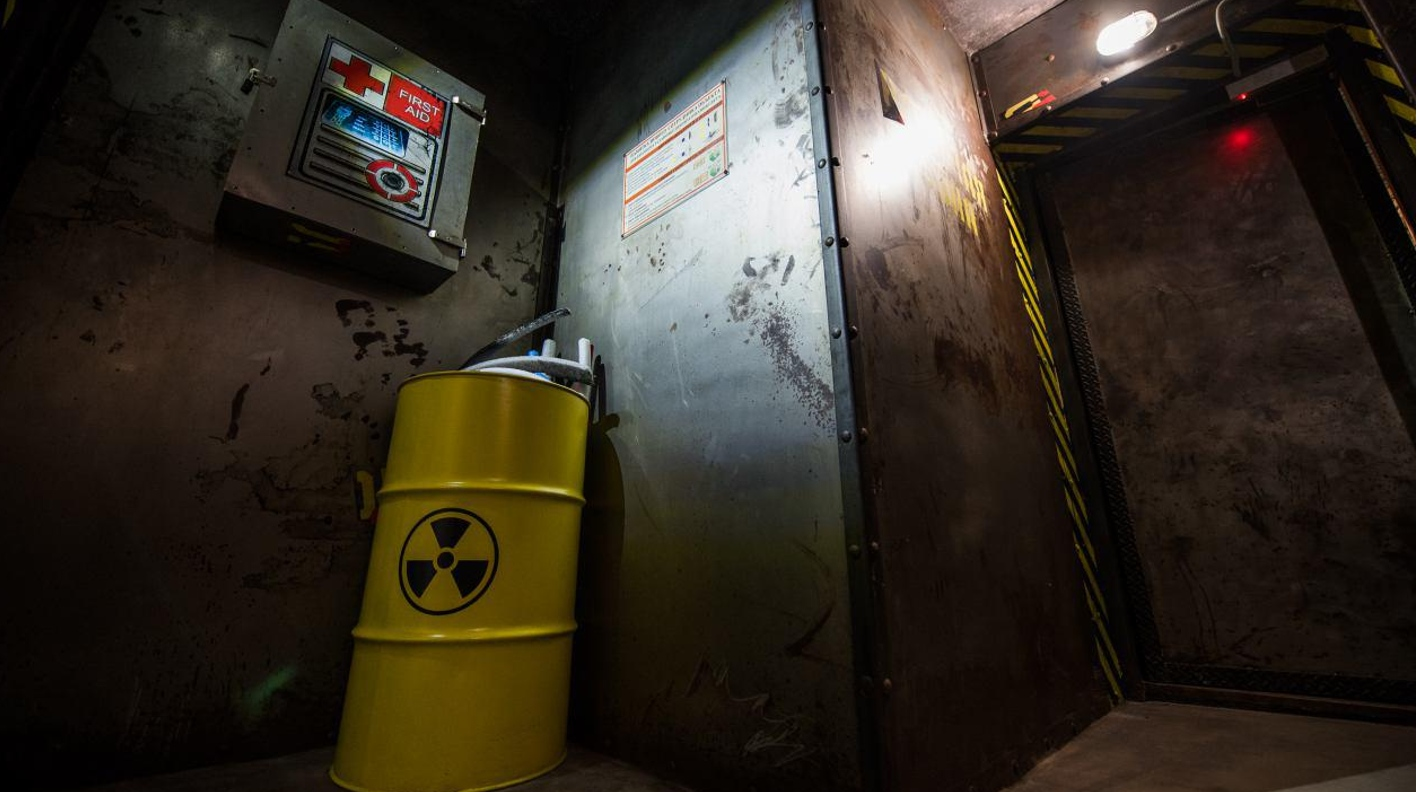
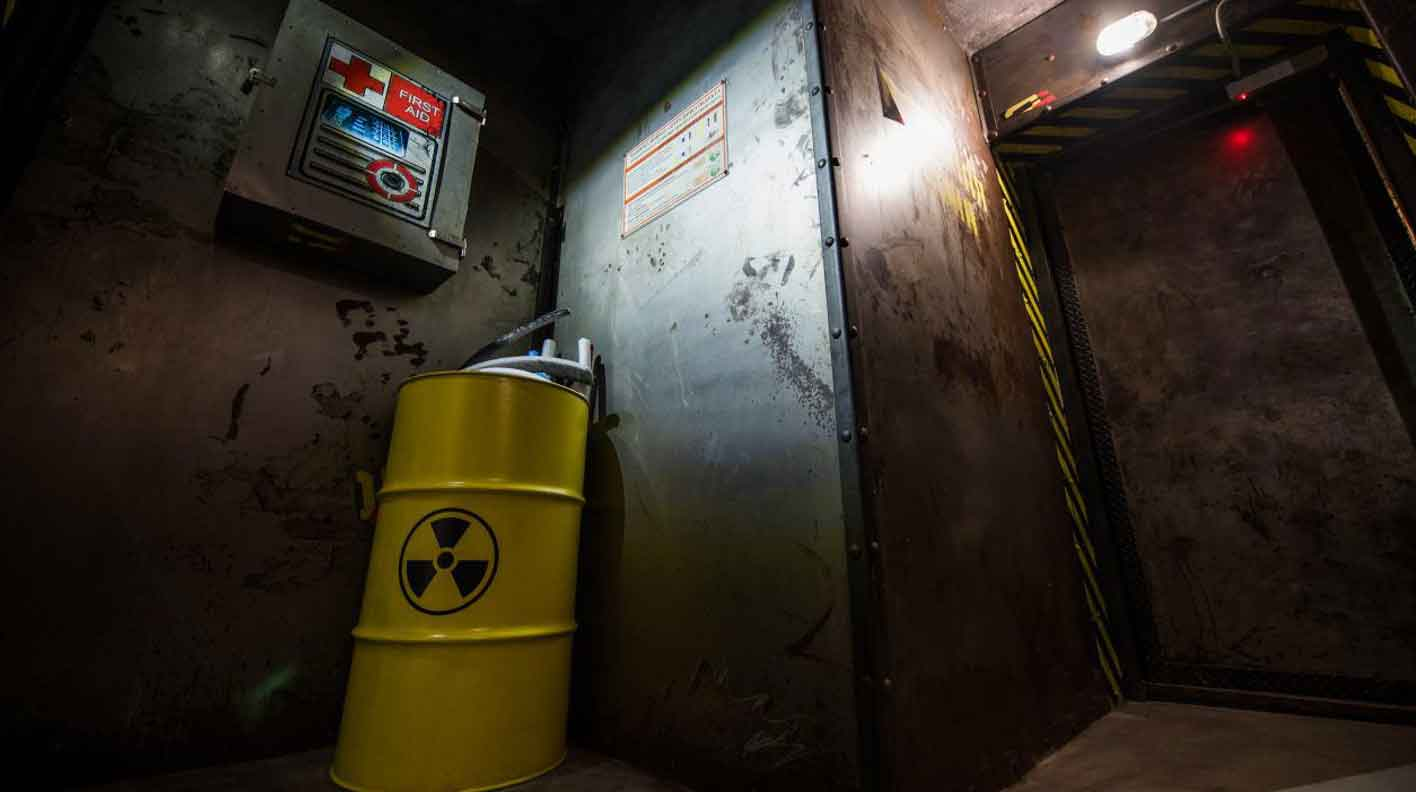
fixed room-images

diff --git a/dontpanic/room.html b/dontpanic/room.html
@@ -65,6 +65,7 @@
       <li><a href="#">Правила</a></li>
       <li><a href="#">Акции</a></li>
       <li><a href="#">Сотрудничество</a></li>
+      <li><a href="http://tamtamlg.github.io/dontpanic/schedule">Расписание</a></li>
     </ul>
     <div class="callback-menu text-center visible-sm-block visible-xs-block">
         <p>+38 (098) 000-80-77</p>
@@ -78,7 +79,7 @@
   <div class="content container-fluid">
     
     <div class="row room genesis">
-      <img src="img/genesis-img.jpg" alt="Проект: Genesis" class="img-responsive">
+      <img src="img/genesis-img.jpg" alt="Проект: Genesis" class="room-images">
       
       <div class="room-left-panel">
         <img src="img/genesis-logo.png" alt="Логотип комнаты" class="room-logo">

diff --git a/dontpanic/css/style.css b/dontpanic/css/style.css
@@ -342,6 +342,11 @@ th:hover {
   bottom: 20px;
   right: 20px; }
 
+.room-images {
+  display: block;
+  width: 100%;
+  height: auto; }
+
 /* ROOM end*/
 /* SCHEDULE */
 .schedule h2 {
@@ -386,13 +391,23 @@ th:hover {
     max-height: 70px; } }
 
 @media only screen and (max-width: 570px) {
-  .time-to-play,
-  .team,
   .average-time,
-  .room-right-panel,
-  .team-results,
   .room-complexity {
-    display: none; } }
+    display: none; }
+  .team-results,
+  .room-right-panel {
+    display: block;
+    position: static;
+    text-align: center;
+    margin-top: 30px; }
+  .time-to-play,
+  .team {
+    font-size: 14px; }
+  .room h3 {
+    font-size: 16px; }
+  .room-logo {
+    max-width: 50px;
+    max-height: 50px; } }
 
 @media only screen and (max-width: 480px) {
   .calendar {

diff --git a/dontpanic/index.html b/dontpanic/index.html
@@ -65,6 +65,7 @@
       <li><a href="#">Правила</a></li>
       <li><a href="#">Акции</a></li>
       <li><a href="#">Сотрудничество</a></li>
+      <li><a href="http://tamtamlg.github.io/dontpanic/schedule">Расписание</a></li>
     </ul>
     <div class="callback-menu text-center visible-sm-block visible-xs-block">
         <p>+38 (098) 000-80-77</p>

diff --git a/dontpanic/schedule.html b/dontpanic/schedule.html
@@ -65,6 +65,7 @@
       <li><a href="#">Правила</a></li>
       <li><a href="#">Акции</a></li>
       <li><a href="#">Сотрудничество</a></li>
+      <li><a href="http://tamtamlg.github.io/dontpanic/schedule">Расписание</a></li>
     </ul>
     <div class="callback-menu text-center visible-sm-block visible-xs-block">
         <p>+38 (098) 000-80-77</p>
